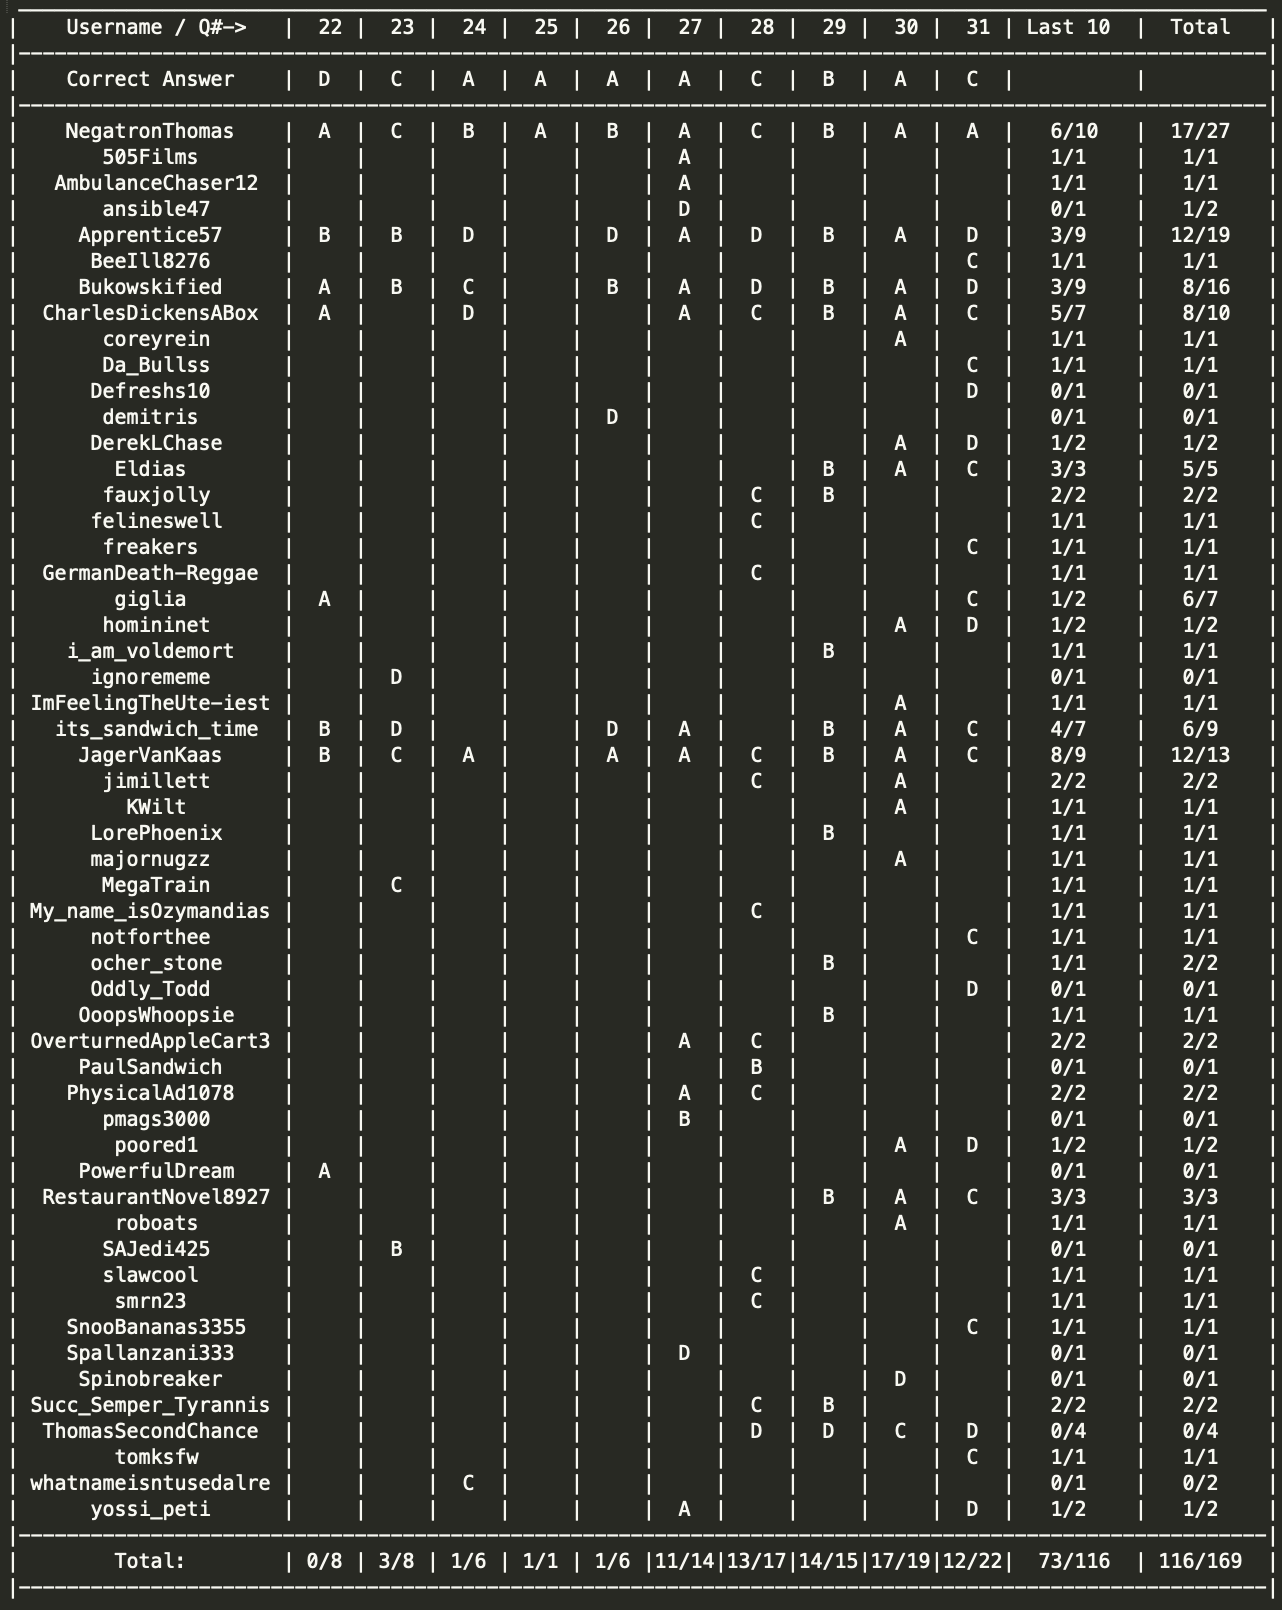
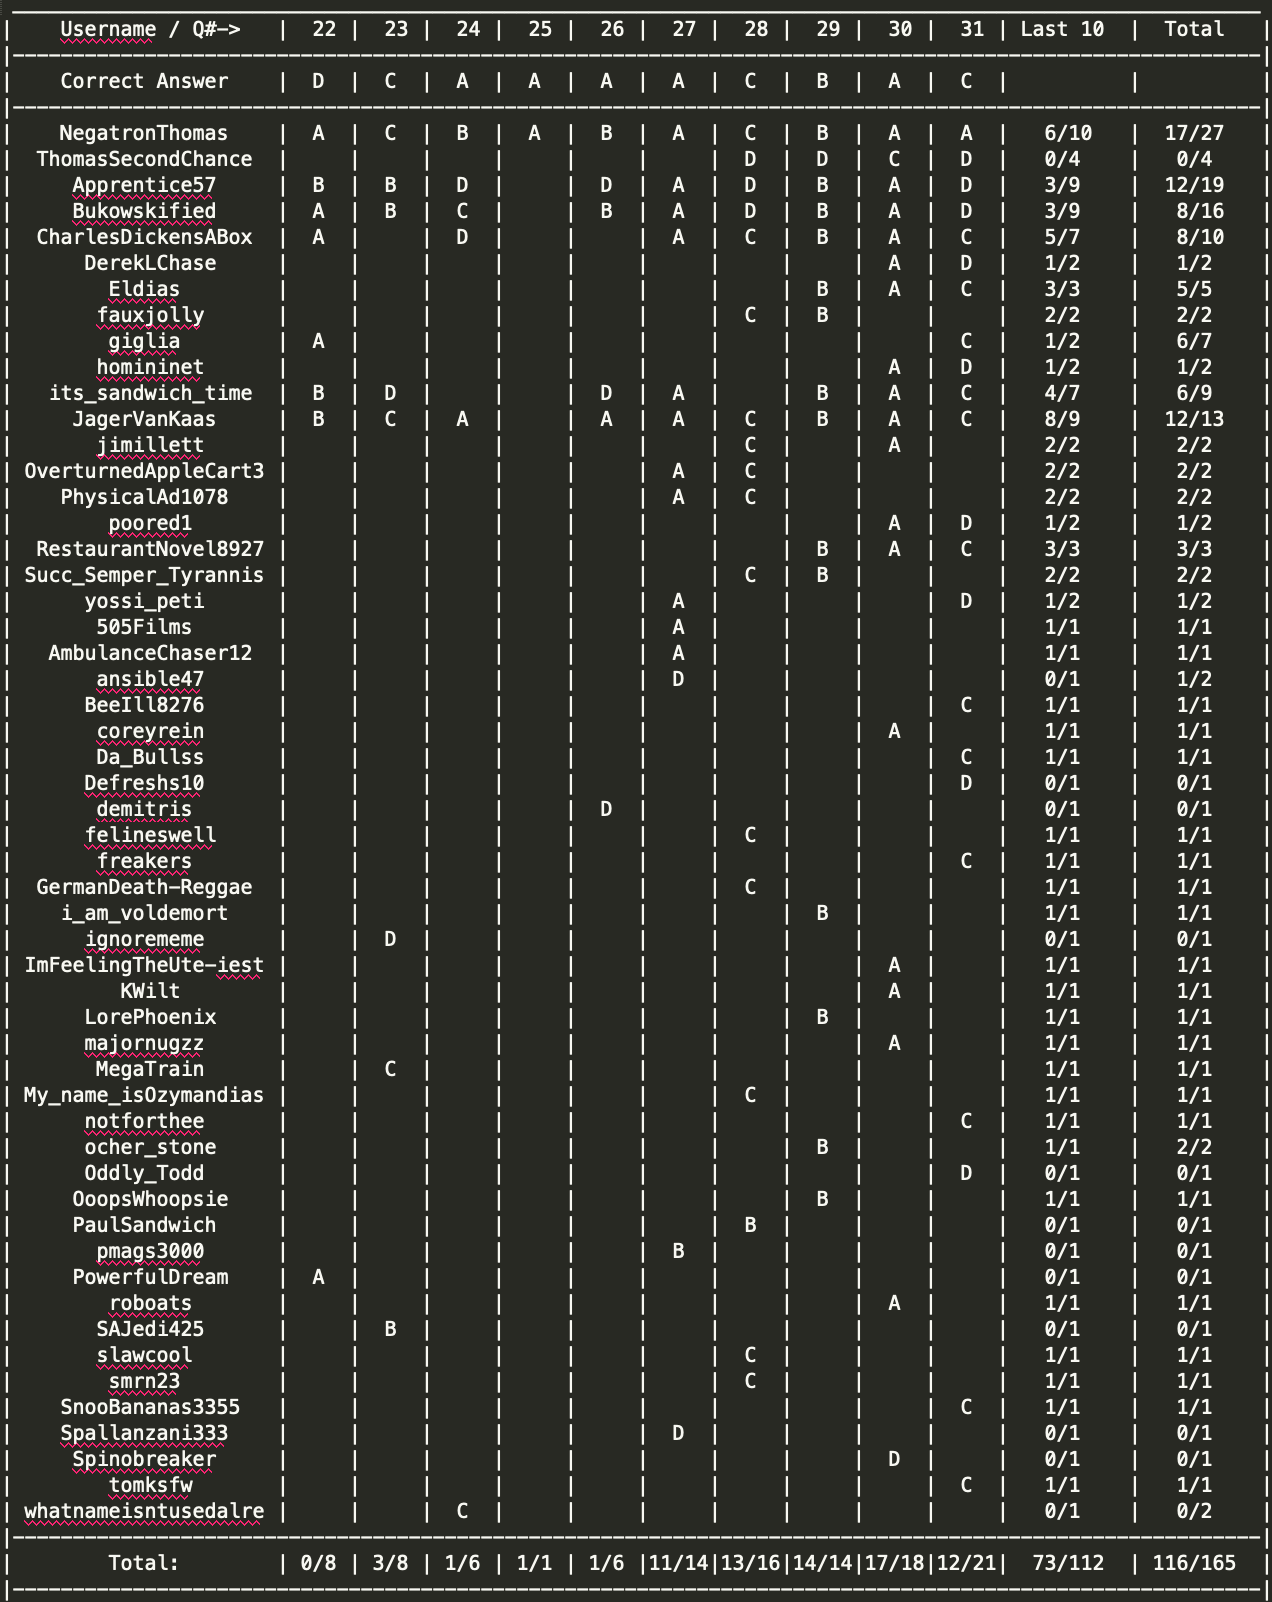
Made tabulateT3BEResults.py not count ThomasSecondChance in scores, and list the scores of repeat players first before 1 off players

diff --git a/tabulateT3BEResults.py b/tabulateT3BEResults.py
@@ -12,6 +12,7 @@ for filename in os.listdir("./" + folder):
 files.sort()
 
 mostRecentWindow = int(sys.argv[1])
+threshold = int(sys.argv[2])
 
 listThomasFirst = True
 
@@ -131,6 +132,8 @@ def compileNames(fullAnswers):
     if listThomasFirst:
         names.remove("NegatronThomas")
         names.insert(0, "NegatronThomas")
+        names.remove("ThomasSecondChance")
+        names.insert(1, "ThomasSecondChance")
 
     underscores = "____-__________-____"
     if underscores in names:
@@ -177,7 +180,7 @@ def calculateStats(fullAnswers, fullMD, names, cutoff):
                         if userAnswer == correctAnswer:
                             numCorrect += 1
 
-                    if n == "NegatronThomas":
+                    if n == "NegatronThomas" or n == "ThomasSecondChance":
                         #For Thomas, no change if it's a repeat he got wrong
                         #But don't count the question if it's a repeat he got right
                         if fullMD[m]["IsRepeat"] == "Yes":
@@ -196,7 +199,7 @@ def calculateStats(fullAnswers, fullMD, names, cutoff):
                             numCorrect += 1
                             numCorrectSub += 1
 
-                    if n == "NegatronThomas":
+                    if n == "NegatronThomas" or n == "ThomasSecondChance":
                         #For Thomas, no change if it's a repeat he got wrong
                         #But don't count the question if it's a repeat he got right
                         if fullMD[m]["IsRepeat"] == "Yes":
@@ -232,6 +235,9 @@ def calculateStatsQuestion(fullAnswers, fullMD, names):
         numAnswered = 0
         correctAnswer = fullMD[m]["Answer"]
         for n in names:
+            if n == "ThomasSecondChance":
+                continue
+
             userAnswer = fullAnswers[m][n]
             if userAnswer != "X":
                 numAnswered += 1
@@ -317,6 +323,47 @@ def calculateTotalLastX(questionsToIterate, stats):
 def calculateTotalTotal():
     return 10 * "-"
 
+def printUser(names, stats, longestName, fullAnswers, questionsToIterate, recordString, shortRecordString, printTop, loopingStats):
+    #if at printTop, print only users more than threshold total answers
+    #if not, print only users between 1 and threshold total answers
+    for n in names:
+        numAnswered = stats[n]["shortNumAnswered"]
+        if printTop:
+            if numAnswered < threshold:
+                continue
+        else:
+            #skip the common players who would be printed if printTop was true
+            if numAnswered >= threshold:
+                continue
+
+            #skip the players who haven't answered anything in the current window
+            if numAnswered < 1:
+                continue
+
+        printFirstCell(n, longestName)
+        for m in questionsToIterate:
+            answer = fullAnswers[m][n]
+            if answer == "X":
+                answer = " "
+            print(makeFiveWide(answer), end = "|")
+        shortRecord = stats[n]["shortRecord"]
+        record = stats[n]["record"]
+
+        if n != "ThomasSecondChance":
+            loopingStats["totalCorrectShort"] += stats[n]["shortNumCorrect"]
+            loopingStats["totalAnsweredShort"] += stats[n]["shortNumAnswered"]
+            loopingStats["totalCorrect"] += stats[n]["numCorrect"]
+            loopingStats["totalAnswered"] += stats[n]["numAnswered"]
+
+        beforeSpaces = int((len(shortRecordString) - len(shortRecord))/2)
+        afterSpaces = (len(shortRecordString) - len(shortRecord)) - beforeSpaces
+        print((beforeSpaces * " ") + shortRecord + (afterSpaces * " "), end = "|")
+        beforeSpaces = int((len(recordString) - len(record))/2)
+        afterSpaces = (len(recordString) - len(record)) - beforeSpaces
+        print((beforeSpaces * " ") + record + (afterSpaces * " ") + "|")
+
+    return loopingStats
+
 
 def printTable(fullAnswers, fullMD, names, stats, cutoff):
     questionsToIterate = files[-1 * cutoff:]
@@ -355,34 +402,34 @@ def printTable(fullAnswers, fullMD, names, stats, cutoff):
     print(interstitial)
 
     #print each user's answers and stats
-    totalCorrectShort = 0
-    totalAnsweredShort = 0
-    totalCorrect = 0
-    totalAnswered = 0
-    for n in names:
-        if stats[n]["shortRecord"] == "0/0":
-            continue
+    loopingStats = { "totalCorrectShort":0, "totalAnsweredShort":0, "totalCorrect":0, "totalAnswered":0 }
 
-        printFirstCell(n, longestName)
-        for m in questionsToIterate:
-            answer = fullAnswers[m][n]
-            if answer == "X":
-                answer = " "
-            print(makeFiveWide(answer), end = "|")
-        shortRecord = stats[n]["shortRecord"]
-        record = stats[n]["record"]
+    loopingStats = printUser(names, stats, longestName, fullAnswers, questionsToIterate, recordString, shortRecordString, True, loopingStats)
+    loopingStats = printUser(names, stats, longestName, fullAnswers, questionsToIterate, recordString, shortRecordString, False, loopingStats)
+    #for n in names:
+    #    if stats[n]["shortRecord"] == "0/0":
+    #        continue
 
-        totalCorrectShort += stats[n]["shortNumCorrect"]
-        totalAnsweredShort += stats[n]["shortNumAnswered"]
-        totalCorrect += stats[n]["numCorrect"]
-        totalAnswered += stats[n]["numAnswered"]
+    #    printFirstCell(n, longestName)
+    #    for m in questionsToIterate:
+    #        answer = fullAnswers[m][n]
+    #        if answer == "X":
+    #            answer = " "
+    #        print(makeFiveWide(answer), end = "|")
+    #    shortRecord = stats[n]["shortRecord"]
+    #    record = stats[n]["record"]
 
-        beforeSpaces = int((len(shortRecordString) - len(shortRecord))/2)
-        afterSpaces = (len(shortRecordString) - len(shortRecord)) - beforeSpaces
-        print((beforeSpaces * " ") + shortRecord + (afterSpaces * " "), end = "|")
-        beforeSpaces = int((len(recordString) - len(record))/2)
-        afterSpaces = (len(recordString) - len(record)) - beforeSpaces
-        print((beforeSpaces * " ") + record + (afterSpaces * " ") + "|")
+    #    totalCorrectShort += stats[n]["shortNumCorrect"]
+    #    totalAnsweredShort += stats[n]["shortNumAnswered"]
+    #    totalCorrect += stats[n]["numCorrect"]
+    #    totalAnswered += stats[n]["numAnswered"]
+
+    #    beforeSpaces = int((len(shortRecordString) - len(shortRecord))/2)
+    #    afterSpaces = (len(shortRecordString) - len(shortRecord)) - beforeSpaces
+    #    print((beforeSpaces * " ") + shortRecord + (afterSpaces * " "), end = "|")
+    #    beforeSpaces = int((len(recordString) - len(record))/2)
+    #    afterSpaces = (len(recordString) - len(record)) - beforeSpaces
+    #    print((beforeSpaces * " ") + record + (afterSpaces * " ") + "|")
 
     print(interstitial)
 
@@ -390,8 +437,8 @@ def printTable(fullAnswers, fullMD, names, stats, cutoff):
     for m in questionsToIterate:
         print(makeFiveWide(fullMD[m]["Record"]), end = "|")
 
-    lastXStat = str(totalCorrectShort) + "/" + str(totalAnsweredShort)
-    totalStat = str(totalCorrect) + "/" + str(totalAnswered)
+    lastXStat = str(loopingStats["totalCorrectShort"]) + "/" + str(loopingStats["totalAnsweredShort"])
+    totalStat = str(loopingStats["totalCorrect"]) + "/" + str(loopingStats["totalAnswered"])
 
     beforeSpaces = int((len(shortRecordString) - len(lastXStat))/2)
     afterSpaces = (len(shortRecordString) - len(lastXStat)) - beforeSpaces
@@ -401,6 +448,7 @@ def printTable(fullAnswers, fullMD, names, stats, cutoff):
     afterSpaces = (len(recordString) - len(totalStat)) - beforeSpaces
     print((beforeSpaces * " ") + totalStat + (afterSpaces * " ") + "|")
 
+    #print last line
     print(interstitial)
     print("")
 
